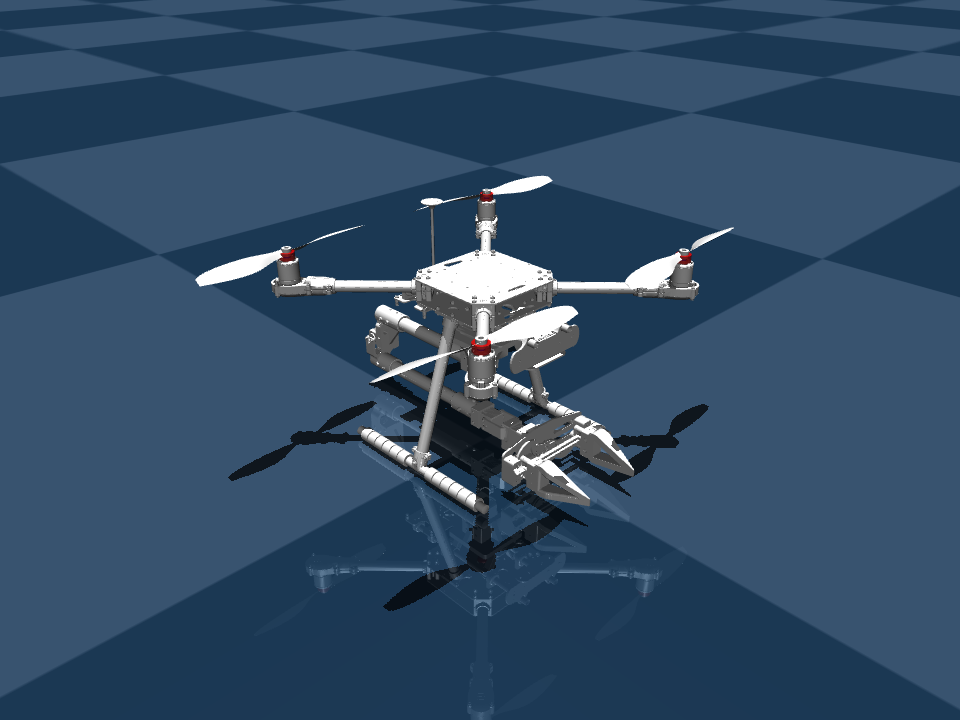
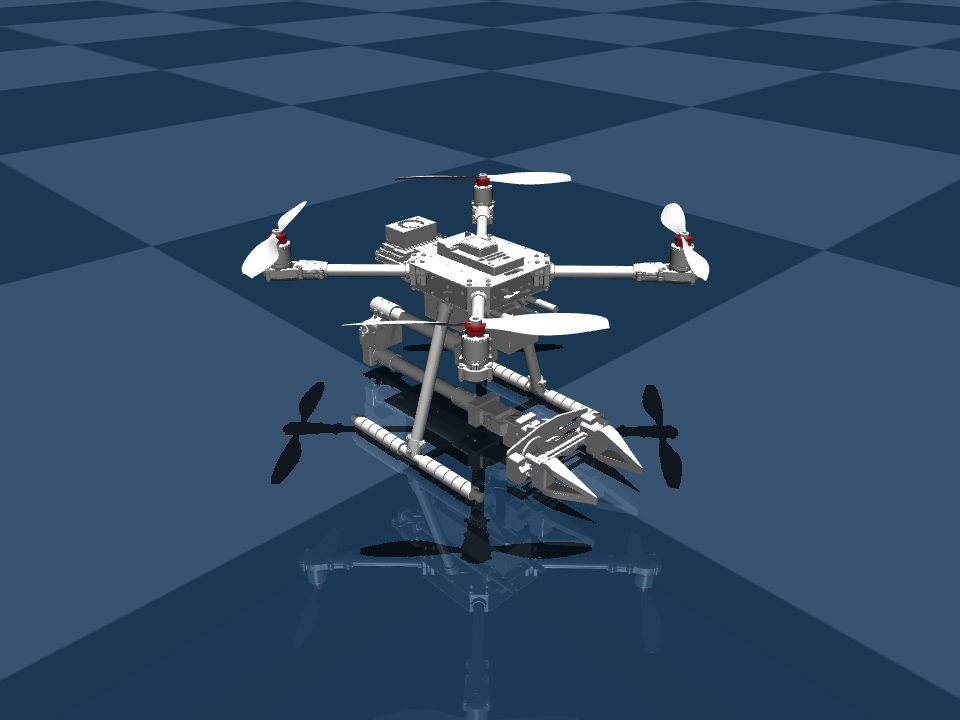
docs(readme): refresh bilingual project guide

diff --git a/README.en.md b/README.en.md
@@ -202,11 +202,18 @@ benchmark = "multirotor"
 
 Core fields:
 
-- `basic.sim_type`: simulation backend, such as `mujoco` or `genesis`.
-- `basic.env_type`: environment type, such as `mc`, `am`, `fw`, `vtol`, or `uuv`.
-- `basic.scene_name`: scene name.
-- `basic.asset_name`: asset parameter filename.
-- `basic.benchmark`: benchmark or runtime grouping field.
+- `basic.sim_type`
+  - Description: simulation backend.
+  - Values: `mujoco`, `genesis`.
+- `basic.env_type`
+  - Description: environment type.
+  - Values: `mc`, `am`, `fw`, `vtol`, `uuv`.
+- `basic.scene_name`
+  - Description: scene name.
+- `basic.asset_name`
+  - Description: asset parameter filename.
+- `basic.benchmark`
+  - Description: benchmark or runtime grouping field.
 
 ACESim first reads the top-level `basic` configuration, then loads asset parameters from `acesim/config/<sim_type>/<asset_name>.toml`. To switch backend, environment type, or asset, start with the `basic` table in `default.toml`.
 
@@ -258,6 +265,8 @@ Common tools in this repository:
 - `acesim.tools.render_readme_assets`: renders README asset previews.
 - `acesim/tools/cal_dynamic_params.py`: helper for dynamics parameters.
 - `acesim/tools/cal_thrust_coef.py`: helper for thrust coefficients.
+
+Running `python -m acesim.tools.sdf2urdf` or `python -m acesim.tools.urdf2mjcf` without arguments opens that tool's BIOS-style TUI by default.
 
 The current `sdf2urdf` interface is designed for general SDF sources, but the provider already implemented in this repository is mainly `px4`.
 